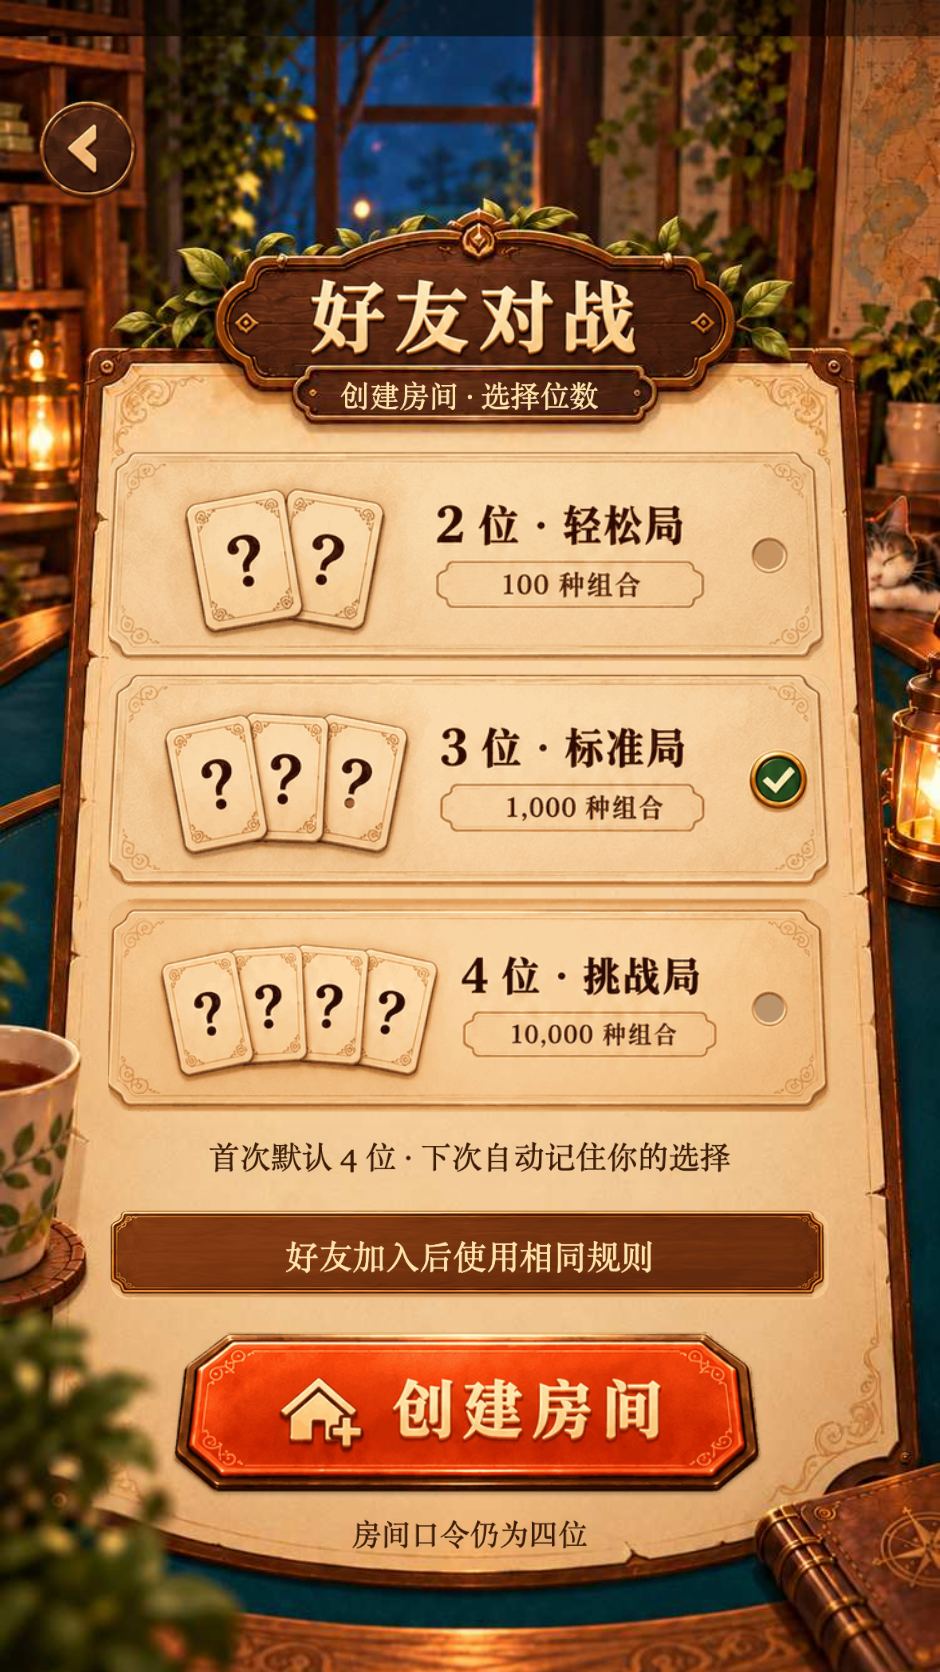
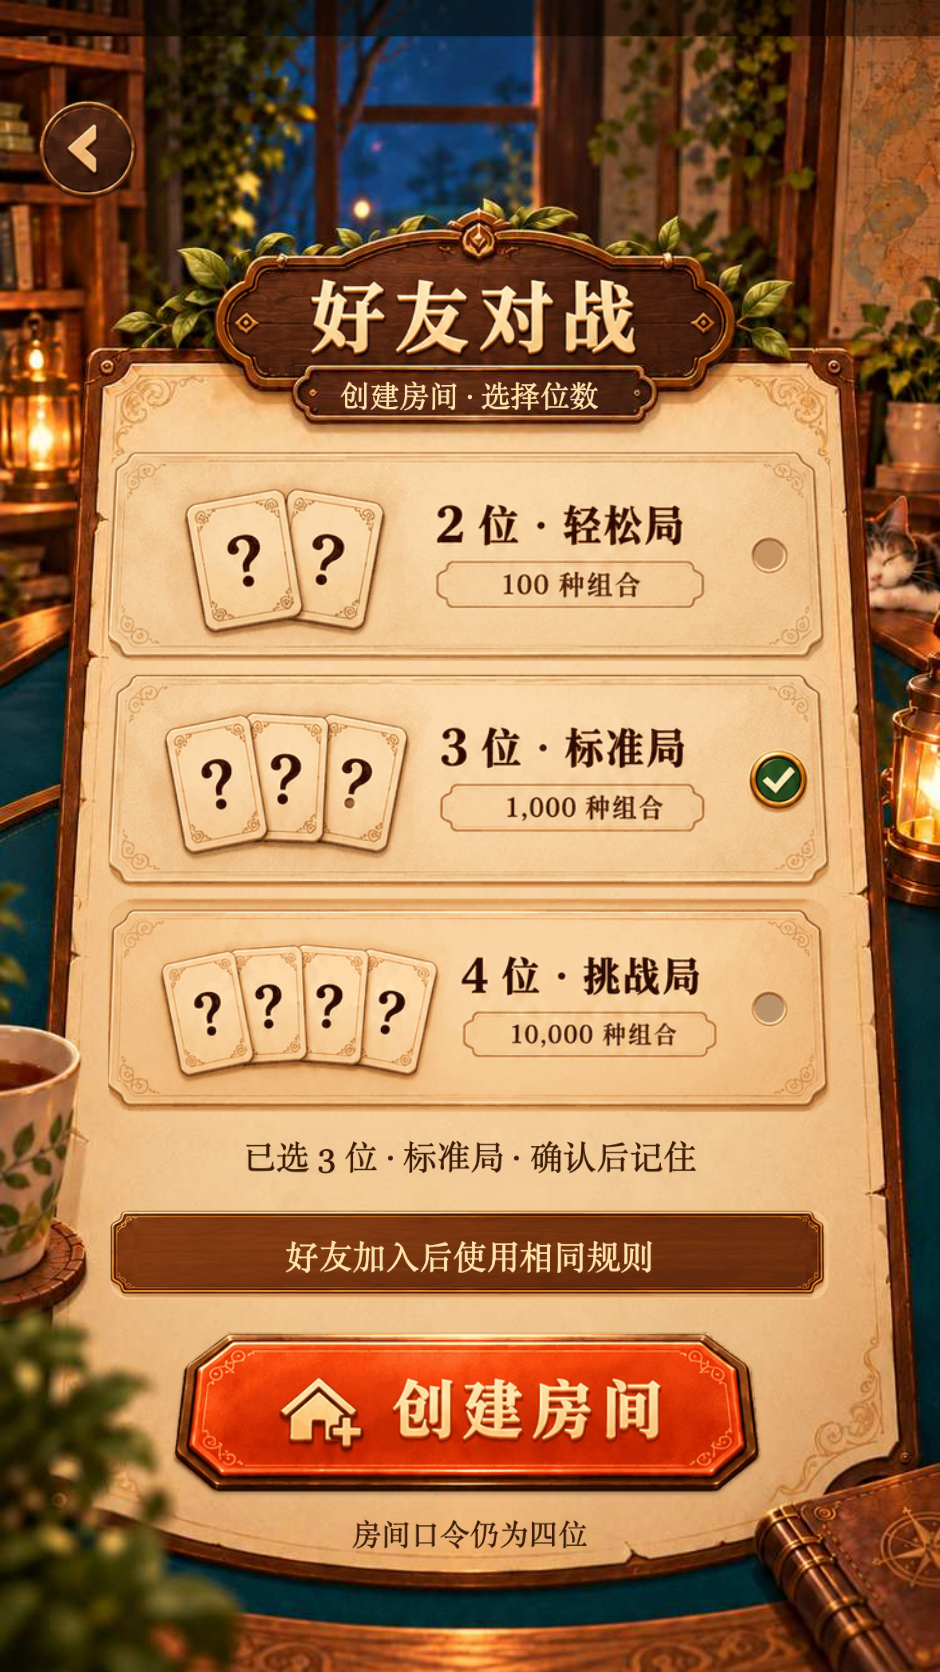
feat: clarify mode selection and deduction interactions

Changed region(s): [[0.216, 0.6842, 0.7713, 0.7153]]

diff --git a/assets/scripts/LearningPanel.ts b/assets/scripts/LearningPanel.ts
@@ -69,11 +69,15 @@ export class LearningPanel {
         this.message = this.practice!.submit(this.draft) ?? '';
         if (!this.message) { this.draft = ''; this.slot = -1; }
       }
-    } else if (key === 'delete') { this.draft = this.draft.slice(0, -1); this.slot = -1; }
+    } else if (key === 'delete') {
+      const index = this.slot >= 0 && this.slot < this.draft.length ? this.slot : this.draft.length - 1;
+      this.draft = this.draft.slice(0, Math.max(0, index)) + this.draft.slice(index + 1); this.slot = -1;
+    }
     else if (/^\d$/.test(key)) {
       if (this.slot >= 0 && this.slot < this.draft.length) {
         this.draft = this.draft.slice(0, this.slot) + key + this.draft.slice(this.slot + 1); this.slot = -1;
       } else if (this.draft.length < size) this.draft += key;
+      else this.message = '数字已填满，点击要修改的卡牌再输入。';
     }
     this.refresh();
   }
@@ -126,7 +130,8 @@ export class LearningPanel {
     // Blank reconstructed answer artwork; 9-slicing preserves corners at variable text widths.
     const node = this.art('answer', x,y,w,h); const sprite = node.getComponent(Sprite)!;
     sprite.type = Sprite.Type.SLICED;
-    this.text(value,x,y,w-30,h-16,/^[0-9]$/.test(value)?76:32,enabled ? '#3D1D08' : '#877C6C');
+    const caption = this.text(value,x,y,w-30,h-16,/^[0-9]$/.test(value)?76:32,enabled ? '#3D1D08' : '#877C6C');
+    caption.node.setParent(node); caption.node.setPosition(0,0);
     return this.touch(node,value,action,enabled);
   }
   private back() {
@@ -188,7 +193,7 @@ export class LearningPanel {
       this.fixed('mode-'+size,`${modeLabel(size)} · ${10**size} 种组合`,470,y,724,()=>{this.selectedMode=size;this.refresh();});
       if(this.selectedMode===size) this.art('check',779,y,64);
     }
-    this.text('首次默认 4 位 · 下次自动记住你的选择',470,1120,720,60,31);
+    this.text(`已选 ${modeLabel(this.selectedMode)} · 确认后记住`,470,1120,720,60,33);
     this.art('banner',470,1220,720,90);
     this.text(friend?'好友加入后使用相同规则':'每回合 60 秒  |  最多 30 轮',470,1220,650,65,33,'#FFE5A9');
     this.fixed(friend?'create':'match',friend?'创建房间':'开始匹配',470,1380,595,()=>this.chooseMode?.(this.selectedMode));
@@ -229,12 +234,13 @@ export class LearningPanel {
       const cx=x+(i-(size-1)/2)*(width+12), selected=editable&&this.slot===i;
       const node=this.art('card',cx,y-(selected?12:0),width);
       if(selected) node.getComponent(Sprite)!.color=new Color('#FFE39A');
-      this.text(digits[i]??'—',cx,y-(selected?12:0),width-8,width*1.2,width*.75,selected?'#A8401B':'#321502');
+      const digit = this.text(digits[i]??'—',cx,y-(selected?12:0),width-8,width*1.2,width*.75,selected?'#A8401B':'#321502');
+      digit.node.setParent(node); digit.node.setPosition(0,0);
       if(editable) this.touch(node,'digit-'+i,()=>{this.slot=i;this.refresh();});
     }
   }
   private keyboard(size: DigitCount, practice=false) {
-    this.cards(this.draft,practice?395:470,practice?968:820,practice?105:110,true,size);
+    this.cards(this.draft,practice?395:470,practice?958:820,practice?105:110,true,size);
     for(const [i,key] of ['1','2','3','4','5','6','7','8','9','delete','0','submit'].entries()) {
       this.fixed('key-'+key,key==='delete'?'删除':key==='submit'?'提交':key,260+(i%3)*211,(practice?1154:1020)+Math.floor(i/3)*100,205,()=>this.input(key),key!=='submit'||this.draft.length===size);
     }
@@ -295,6 +301,7 @@ export class LearningPanel {
     const caption=recent.length>1?compareClues(recent[0],recent[1]):recent.length?clueCaption(recent[0]):'点击卡牌可单独修改一位';
     this.text(this.message||caption,470,744,670,106,30);
     this.keyboard(practice.size,true);
+    this.text(this.slot>=0?`正在修改第 ${this.slot+1} 位 · 点击键盘替换`:`已输入 ${this.draft.length}/${practice.size} 位 · 点击卡牌可修改`,470,1050,680,40,26);
     this.fixed('hint',`推理提示 · ${practice.history.length} 条记录`,747,970,215,()=>this.go('clues'));
   }
   private clues() {
@@ -345,9 +352,14 @@ export class LearningPanel {
       this.text(h.hits===null?'—':`${h.hits}/${size}`,690,y,110,70,38);
       this.text(index===selected?'已选':index===baseline?'对照':'',793,y,80,60,25);
     });
-    this.button('上一页',235,892,190,()=>{this.recordPage--;this.refresh();},this.recordPage>0,66);
-    this.text(`${this.recordPage+1} / ${pages}`,470,892,200,60,28);
-    this.button('下一页',705,892,190,()=>{this.recordPage++;this.refresh();},this.recordPage+1<pages,66);
+    if (pages > 1) {
+      const move = (page: number, index = page * 3) => {
+        this.recordPage = page; this.selected = index; this.refresh();
+      };
+      this.button('上一页',235,892,190,()=>move(this.recordPage-1),this.recordPage>0,80);
+      this.button(`${this.recordPage+1}/${pages} · 回最新`,470,892,230,()=>move(pages-1,history.length-1),true,80).name='LearningControl-回到最新';
+      this.button('下一页',705,892,190,()=>move(this.recordPage+1),this.recordPage+1<pages,80);
+    } else this.text(history.length?'点击记录选择，再设为对照':'猜测后即可在这里查看和对比记录',470,892,700,65,29);
     const item=history[selected],before=history[baseline];
     const caption=item?before&&baseline!==selected?compareClues(before,item):clueCaption(item):'点击记录选择，再设为对照，可比较任意两次猜测。';
     this.art('answer',470,1110,735,320);
@@ -367,10 +379,14 @@ export class LearningPanel {
         this.text(`命中数 ${before.hits} → ${item.hits}`,470,1090,650,70,37);
       }
     }
-    this.text(caption,470,1200,650,115,32);
+    this.text(caption,470,item?.digits&&before?.digits&&baseline!==selected?1200:1110,650,135,32);
     this.fixed('baseline','设为对照',285,1500,360,()=>{this.baseline=selected;this.refresh();},!!item?.digits);
     const room=this.context.room;
     const canCopy=!room?!this.practice?.solved:['playing','reply'].includes(room.phase)&&room.current===this.context.me&&this.context.now>=room.startAt&&this.context.now<room.deadline;
+    const copyHint = !item?.digits ? (history.length?'超时记录没有数字，无法复制':'先提交一次猜测，再选择记录')
+      : !canCopy ? (!room?'本局已破解，可返回开始新练习':'轮到你行动时可复制记录')
+      : `已选第 ${selected+1} 次 · 复制后可修改任意一位`;
+    this.text(copyHint,470,1302,700,50,28);
     this.fixed('copy','复制后修改',677,1500,383,()=>{
       if(!item?.digits)return;
       if(room)this.context.copy(item.digits);

diff --git a/docs/verification/learning-v2/interaction-polish.md b/docs/verification/learning-v2/interaction-polish.md
@@ -1,0 +1,21 @@
+# 2026-10-31 页面交互优化
+
+审查范围为选档、教学、练习和推理笔记。继续复用现有独立美术控件；没有生成新图片、改变匹配规则或修改线上服务。
+
+## 已改善
+
+- 选档确认文案随选择变化，明确显示已选的位数与模式，确认后才记忆；取消保留旧偏好。
+- 练习和教学选中数字卡后，删除该位而不是误删末位，后面的数字前移；未选中时保持删除末位。满位后继续输入会明确提示点击卡牌修改，不再无反馈。
+- 练习输入区显示已输入数量或当前正在编辑的位数，选中卡牌上移且变色。
+- 原生文字放入按钮或卡牌节点，按压时与美术底板一起缩放。
+- 历史翻页同步选择新页第一条记录；手动设置的对照记录继续保留。增加回到最新按钮，同时定位末页并选择最新记录。
+- 单页历史隐藏无意义的翻页控件；空数据与没有可比记录时，说明位于详情面板中央。
+- 复制操作显示选中的记录编号；超时、未到自己回合或练习已破解时解释不可复制的原因。原有回合/期限校验保留。
+
+## 验证
+
+- 87 项测试、服务端与客户端类型检查通过。
+- Web 实际点按三组 smoke 通过：教学/练习、正式多档对局、页面与边界状态。新增断言覆盖选中第二位后删除、满位输入不改变草稿、翻页选中当前页与回到最新。
+- 实际截图更新于本目录，含 30 条记录、空记录和 375×667 短屏。截图对照后调整卡牌与辅助提示的间距。
+- 微信导出与包体检查通过，输出 build/wechatgame/；体积见 package-size.txt。
+- 未进行微信开发者工具/真机验收或正式发布；没有更新线上网站或后端。

diff --git a/docs/verification/learning-v2/README.md b/docs/verification/learning-v2/README.md
@@ -4,6 +4,8 @@
 
 [打开设计稿 / 运行效果对照](index.html) · [素材来源、提示词、坐标与复现说明](../../design/new-pages-v2/reconstruction/README.md)
 
+最新更新：[2026-10-31 页面与交互优化记录](interaction-polish.md)。下列运行截图已同步更新。
+
 ## 验证范围
 
 - `npm test`：86 项通过。
